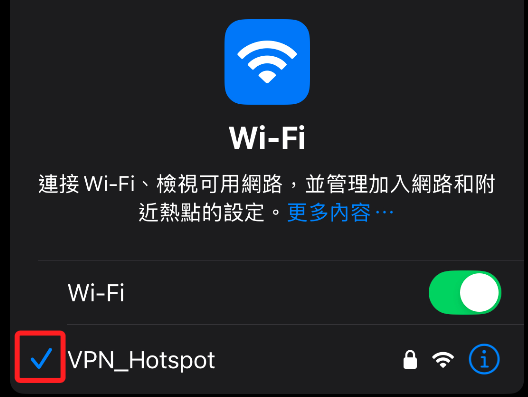
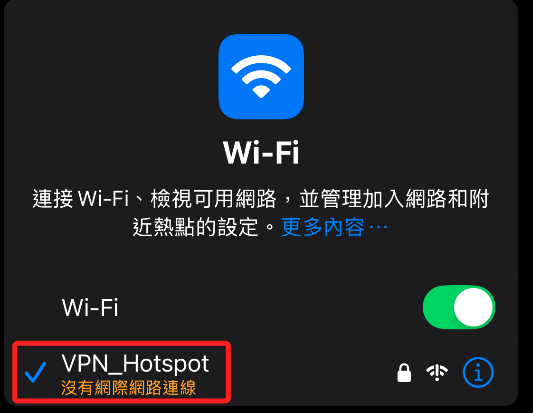
Commit on 2025-01-23 15:35:24

diff --git a/D29_VPN/02_樹莓派熱點/01.md b/D29_VPN/02_樹莓派熱點/01.md
@@ -1,0 +1,214 @@
+# 樹莓派熱點分享路由
+
+## 更新並安裝必要軟體
+
+1. 更新樹莓派系統
+
+```bash
+sudo apt update && sudo apt upgrade -y
+```
+
+2. 安裝相關工具
+
+```bash
+sudo apt install hostapd dnsmasq iptables-persistent -y
+```
+
+## HostAPD
+
+_HostAPD 用於啟用 Wi-Fi 熱點功能_
+
+1. 編輯主配置檔案 `/etc/hostapd/hostapd.conf`
+
+```bash
+sudo nano /etc/hostapd/hostapd.conf
+```
+
+2. 填入以下內容
+
+```bash
+interface=wlan0
+driver=nl80211
+ssid=PiHotspot
+hw_mode=g
+channel=7
+wmm_enabled=1
+macaddr_acl=0
+auth_algs=1
+ignore_broadcast_ssid=0
+wpa=2
+wpa_passphrase=11223344
+wpa_key_mgmt=WPA-PSK
+rsn_pairwise=CCMP
+```
+
+## 配置 `hostapd` 預設文件
+
+1. 編輯 `/etc/default/hostapd`
+
+```bash
+sudo nano /etc/default/hostapd
+```
+
+2. 添加以下內容
+
+```bash
+DAEMON_CONF="/etc/hostapd/hostapd.conf"
+```
+
+## 配置 Dnsmasq
+
+_Dnsmasq 用於管理 DHCP 和 DNS_
+
+1. 備份預設配置檔案
+
+```bash
+sudo mv /etc/dnsmasq.conf /etc/dnsmasq.conf.bak
+```
+
+2. 建立新的配置檔案 `/etc/dnsmasq.conf`
+
+```bash
+sudo nano /etc/dnsmasq.conf
+```
+
+3. 填入以下內容
+
+```bash
+interface=wlan0
+dhcp-range=192.168.50.10,192.168.50.50,12h
+dhcp-option=3,192.168.50.1
+dhcp-option=6,8.8.8.8,8.8.4.4
+```
+
+## 配置網卡靜態 IP
+
+_新版系統不再使用 `/etc/dhcpcd.conf`，所以改用 `NetworkManager` 來設定網卡靜態 IP_
+
+1. 列出所有網卡連線名稱
+
+```bash
+nmcli connection show
+```
+
+2. 找到 wlan0 所對應的連線名稱，假設連線名稱為 preconfigured，則將指令修正如下，用以設定靜態 IP 地址
+
+```bash
+sudo nmcli connection modify preconfigured ipv4.addresses 192.168.50.1/24
+sudo nmcli connection modify preconfigured ipv4.gateway 192.168.50.1
+sudo nmcli connection modify preconfigured ipv4.method manual
+sudo nmcli connection up preconfigured
+```
+
+3. 完成後，確認靜態 IP 是否生效
+
+```bash
+ip addr show wlan0
+```
+
+## 配置 IP 轉發
+
+1. 啟用內核 IP 轉發
+
+```bash
+sudo sysctl -w net.ipv4.ip_forward=1
+```
+
+2. 將其永久化，編輯 `/etc/sysctl.conf`
+
+```bash
+sudo nano /etc/sysctl.conf
+```
+
+3. 添加以下內容或取消預設的註解
+
+```bash
+net.ipv4.ip_forward=1
+```
+
+## 配置 NAT 網絡地址轉換
+
+1. 確認有線網卡名稱
+
+```bash
+ip link show
+```
+
+2. 設置 iptables 規則以將流量轉發至有線網卡，一般是 `eth0`
+
+```bash
+sudo iptables -t nat -A POSTROUTING -o eth0 -j MASQUERADE
+sudo iptables -A FORWARD -i wlan0 -o eth0 -j ACCEPT
+sudo iptables -A FORWARD -i eth0 -o wlan0 -m state --state RELATED,ESTABLISHED -j ACCEPT
+sudo netfilter-persistent save
+```
+
+3. 驗證規則是否正確設定
+
+```bash
+sudo iptables -t nat -L
+sudo iptables -L
+```
+
+## 啟動服務
+
+1. 解除屏蔽並啟用 `hostapd` 和 `dnsmasq`
+
+```bash
+sudo systemctl unmask hostapd
+sudo systemctl enable hostapd
+sudo systemctl enable dnsmasq
+```
+
+2. 啟動服務
+
+```bash
+sudo systemctl start hostapd
+sudo systemctl start dnsmasq
+```
+
+## 測試熱點
+
+1. 檢查熱點是否廣播中
+
+```bash
+iw dev wlan0 scan | grep SSID
+```
+
+2. 檢查日誌是否顯示啟動成功
+
+```bash
+sudo journalctl -u hostapd
+sudo journalctl -u dnsmasq
+```
+
+## 查看狀態
+
+1. 確認服務是否已啟動
+
+```bash
+sudo systemctl status hostapd
+sudo systemctl status dnsmasq
+```
+
+2. 啟動服務
+
+```bash
+sudo systemctl restart hostapd
+sudo systemctl restart dnsmasq
+```
+
+3. 網卡無法切換為 AP 模式
+
+```bash
+sudo ip link set wlan0 down
+sudo iw dev wlan0 set type __ap
+sudo ip link set wlan0 up
+```
+
+
+## 測試設備連線
+
+1. 在手機上連接 `RaspberryPi_Hotspot` 熱點，輸入密碼。
+
+

diff --git a/D29_VPN/01_AWS+OpenVPN/04_分享熱點.md b/D29_VPN/01_AWS+OpenVPN/04_分享熱點.md
@@ -209,7 +209,7 @@ sudo systemctl restart hostapd
 
 ## 啟用 Wi-Fi 熱點
 
-1. 編輯 Hostapd 配置，`hostapd` 的配置方法與舊版相同，創建或編輯 `/etc/hostapd/hostapd.conf`
+1. 編輯 Hostapd 配置，`hostapd` 的配置方法與舊版相同，建立或編輯 `/etc/hostapd/hostapd.conf`
 
 ```bash
 sudo nano /etc/hostapd/hostapd.conf

diff --git a/D29_VPN/04-1_建立熱點.md b/D29_VPN/04-1_建立熱點.md
@@ -413,7 +413,7 @@ _樹莓派將來自 Wi-Fi 熱點（`wlan0`）的流量轉發到有線網卡（`e
 
 <br>
 
-3. 這時熱點才可以完成連線。
+3. 這時熱點才可以完成連線，但是會顯示無網際網路。
 
     ![](images/img_65.png)
 
